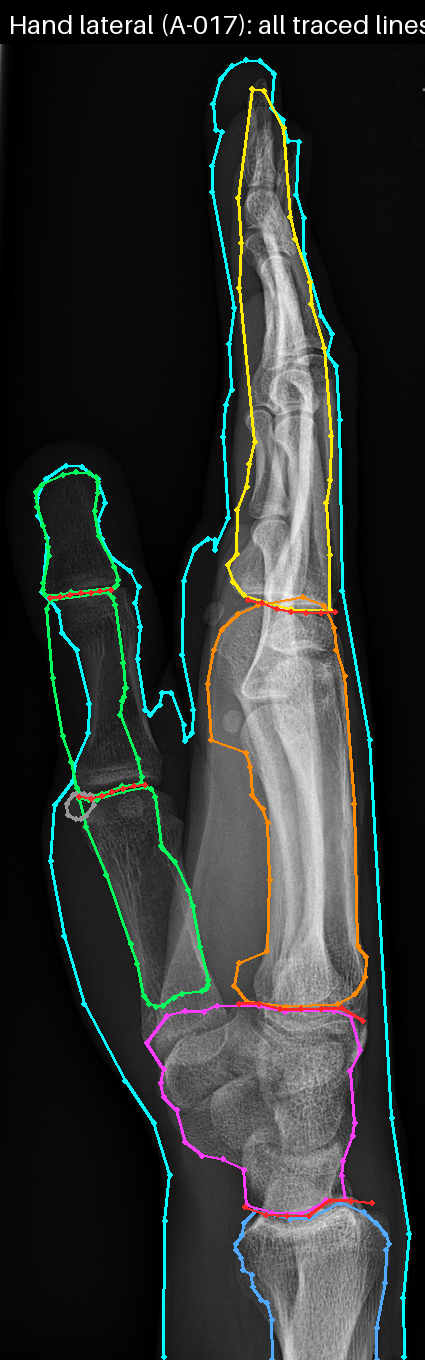
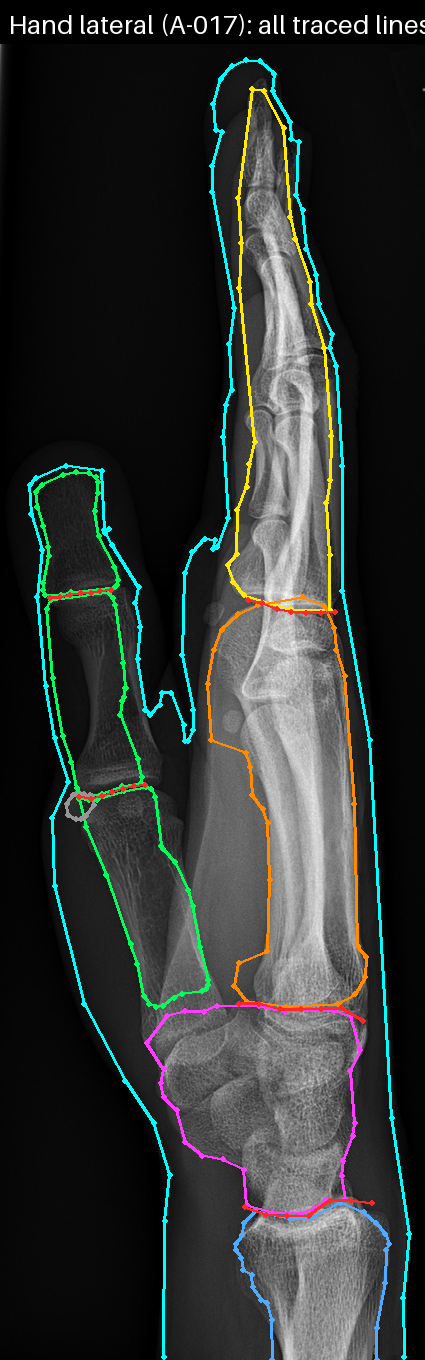
RAD-072 part 2a: soft-tissue outline always outside the bone outlines (owner approval fix)
- soft tissue traced after the bones and united with the bone outlines grown by 10 px
- script fails on any soft-tissue point inside a bone; hand-outlines.test.ts checks both views
- re-rendered pa-all, pa-soft-tissue, lateral-all

Claude-Session: https://claude.ai/code/session_01PsG86qasxry1aYi9hcHQZb

diff --git a/src/features/positioning/hand-outlines.test.ts b/src/features/positioning/hand-outlines.test.ts
@@ -1,0 +1,34 @@
+import { describe, expect, it } from "vitest";
+import outlines from "./hand-outlines.json";
+
+type Pt = [number, number];
+interface Structure { id: string; group: string; closed: boolean; points: Pt[] }
+
+const inPolygon = ([x, y]: Pt, poly: Pt[]) => {
+  let inside = false;
+  for (let i = 0, j = poly.length - 1; i < poly.length; j = i++) {
+    const [x1, y1] = poly[i]!, [x2, y2] = poly[j]!;
+    if (y1 > y !== y2 > y && x < x1 + ((y - y1) * (x2 - x1)) / (y2 - y1)) inside = !inside;
+  }
+  return inside;
+};
+
+describe("traced hand outlines (RAD-072 2a)", () => {
+  for (const view of ["pa", "lateral"] as const) {
+    it(`${view}: no soft-tissue point lies inside any bone outline (owner review)`, () => {
+      const ss = outlines.views[view].structures as Structure[];
+      const soft = ss.find((s) => s.group === "soft")!;
+      // open bone outlines (forearm, styloid tip) are closed by the chord between their ends; points along each soft segment are sampled too
+      const bones = ss.filter((s) => s.group !== "soft" && s.group !== "joints" && s.points.length > 2);
+      const samples: Pt[] = [];
+      soft.points.forEach((p, i) => {
+        const q = soft.points[i + 1];
+        if (!q) return void samples.push(p);
+        const n = Math.max(1, Math.ceil(Math.hypot(q[0] - p[0], q[1] - p[1]) / 2));
+        for (let k = 0; k < n; k++) samples.push([p[0] + ((q[0] - p[0]) * k) / n, p[1] + ((q[1] - p[1]) * k) / n]);
+      });
+      const bad = samples.flatMap((p) => bones.filter((b) => inPolygon(p, b.points)).map((b) => `${p.map(Math.round).join(",")} in ${b.id}`));
+      expect(bad).toEqual([]);
+    });
+  }
+});

diff --git a/scripts/trace-outlines/trace-hand-outlines.py b/scripts/trace-outlines/trace-hand-outlines.py
@@ -29,7 +29,7 @@ import sys
 from pathlib import Path
 
 import numpy as np
-from PIL import Image, ImageDraw, ImageFont
+from PIL import Image, ImageDraw, ImageFilter, ImageFont
 
 ROOT = Path(__file__).resolve().parent.parent.parent
 OUT_JSON = ROOT / "src/features/positioning/hand-outlines.json"
@@ -140,6 +140,7 @@ LAT_LINES = [
 SOFT_TOWARD_BG = {"pa": 0.0, "lateral": 0.5}  # curated: the lateral's finger soft tissue is very faint
 OUTER_STRENGTH = 0.3  # curated: a group outline step must be at least this fraction of the strongest step
 BRIGHT_FACTOR = {"pa": 0.6, "lateral": 0.6}  # curated: fraction of the bone-brightness level a group outline must enclose
+SOFT_MARGIN = 10  # px: the soft-tissue outline keeps at least this margin outside every bone outline
 GAP_HALF = 4  # px: half a joint-space width, between a traced gap line and the bone surface beside it
 
 # ───────────────────────────────────────────────────── image helpers ─────────────────────────────────────────────────────
@@ -492,15 +493,32 @@ def otsu(vals, lo, hi, bins=128):
     return float(thr), float(m0)
 
 
-def soft_tissue(img, toward_background):
-    sm = gauss(img, 3.0)
-    small = sm[::2, ::2]
+def soft_threshold(img, toward_background):
+    small = gauss(img, 3.0)[::2, ::2]
     # Otsu on the darker 75 % of the pixels only (background vs soft tissue; most bone is left out of the split)
     cap = float(np.percentile(small, 75))
     thr, bg = otsu(small[small < cap].ravel(), 0.0, cap)
     # the thin distal soft tissue is fainter than the palm: a curated fraction moves the cut toward the background mean
-    thr = thr - toward_background * (thr - bg)
-    mask = small > thr
+    return thr - toward_background * (thr - bg)
+
+
+def bone_guard(shape, outlines, margin):
+    """Half-resolution mask of every traced bone outline grown by `margin` px. Where the soft tissue is too faint for the
+    threshold (owner review 2026-10-23: the lateral thumb), the soft-tissue region is united with it, so the outline is a
+    smooth margin outside the bone edge and never crosses a bone."""
+    H, W = (shape[0] + 1) // 2, (shape[1] + 1) // 2
+    im = Image.new("L", (W, H), 0)
+    d = ImageDraw.Draw(im)
+    for pts in outlines:
+        d.polygon([(x / 2, y / 2) for x, y in pts], fill=255)
+    r = int(round(margin / 2))
+    im = im.filter(ImageFilter.MaxFilter(2 * r + 1))
+    return np.asarray(im) > 0
+
+
+def soft_tissue(img, thr, guard):
+    small = gauss(img, 3.0)[::2, ::2]
+    mask = (small > thr) | guard
     # largest 4-connected region (iterative flood fill)
     H, W = mask.shape
     lab = np.zeros(mask.shape, dtype=np.int32)
@@ -574,7 +592,7 @@ def soft_tissue(img, toward_background):
             runs.append(curr)
     run = max(runs, key=len)
     seg = pts[run]
-    return ints(rdp(seg, 5.0)), round(float(thr), 1)
+    return ints(rdp(seg, 5.0))
 
 
 # ───────────────────────────────────────────────────── assemble ─────────────────────────────────────────────────────
@@ -585,14 +603,12 @@ def view(kind, img, bones, blobs, joints, lines):
     sm = gauss(img, 2.0)
     gap = gauss(img, 1.2)
     out = []
-    soft, thr = soft_tissue(img, SOFT_TOWARD_BG[kind])
+    thr = soft_threshold(img, SOFT_TOWARD_BG[kind])
     # bone-brightness level for group outlines: Otsu of the smoothed image above the soft-tissue cut
     bone_t, _ = otsu(sm[sm > thr].ravel()[::7], thr, 255.0)
     for item in [*bones, *blobs]:
         if item.get("mode") == "outer" and BRIGHT_FACTOR[kind]:
             item["bright"] = BRIGHT_FACTOR[kind] * bone_t
-    out.append({"id": "soft-tissue", "group": "soft", "closed": False, "follows": None,
-                "note": f"Otsu threshold {thr} of the smoothed image; open where the forearm leaves the image", "points": soft})
     spec = {b["id"]: b for b in bones}
     # joint spaces first (they depend on the seeds only); each bone / blob is then bounded by the joint lines it touches
     jl = {}
@@ -642,7 +658,33 @@ def view(kind, img, bones, blobs, joints, lines):
         ra = np.array(by["radius"]["points"])
         tip = ra[np.argmin(ra[:, 1] - ra[:, 0])]  # top-right extreme: the radial side is the viewer's right (left hand, PA)
         out.append({"id": "radial-styloid", "group": "prominences", "closed": False, "follows": "radius", "points": ints([tip])})
+    # soft tissue last (it is united with the grown bone outlines), stored first
+    bones_px = [st["points"] if st["closed"] else st["points"] + [st["points"][0]]
+                for st in out if st["group"] not in ("joints",) and len(st["points"]) > 2]
+    soft = soft_tissue(img, thr, bone_guard(img.shape, bones_px, SOFT_MARGIN))
+    out.insert(0, {"id": "soft-tissue", "group": "soft", "closed": False, "follows": None,
+                   "note": f"Otsu threshold {round(float(thr), 1)} of the smoothed image, united with the bone outlines grown by "
+                           f"{SOFT_MARGIN} px; open where the forearm leaves the image", "points": soft})
+    bad = soft_inside_bone(out)
+    if bad:
+        sys.exit(f"{kind}: soft-tissue points inside a bone outline: {bad[:5]}")
     return out
+
+
+def point_in_polygon(x, y, poly):
+    inside = False
+    for (x1, y1), (x2, y2) in zip(poly, poly[1:] + poly[:1]):
+        if (y1 > y) != (y2 > y) and x < x1 + (y - y1) * (x2 - x1) / (y2 - y1):
+            inside = not inside
+    return inside
+
+
+def soft_inside_bone(structures):
+    """Automated check (owner review 2026-10-23): no soft-tissue point lies inside any bone outline. Open bone outlines
+    (forearm, styloid tip) are closed by the chord between their ends. Returns [(soft point, bone id), …]."""
+    soft = next(st for st in structures if st["group"] == "soft")["points"]
+    bones = [st for st in structures if st["group"] not in ("soft", "joints") and len(st["points"]) > 2]
+    return [(p, b["id"]) for p in soft for b in bones if point_in_polygon(p[0], p[1], b["points"])]
 
 
 def file_sha256(p):

diff --git a/docs/RAD-072_PART2A_PHASE_A_REPORT_2026-10-23.md b/docs/RAD-072_PART2A_PHASE_A_REPORT_2026-10-23.md
@@ -156,3 +156,8 @@
 | `pa-all.png`، `lateral-all.png` | نظرة شاملة |
 
 الرد المطلوب: «موافق» أو تصحيحات إضافية. **ملاحظة المالك للمرحلة B (مسجلة):** يُصلح H1 برسم العظام المتراكبة بأسلوب الصورة الشعاعية (تعبئة شبه شفافة أو حدود فوق بعضها) فتبقى العظام المتراكبة ظاهرة كما في صورة النتيجة.
+
+### ملحق 2: النسيج الرخو خارج العظام (موافقة المالك، 2026-10-23)
+- وافق المالك على التراكبات، مع تصحيح أخير قبل المرحلة B: خط النسيج الرخو الجانبي كان يعبر السلامية القريبة للإبهام. يُتتبع النسيج الرخو الآن بعد العظام، وتُضم منطقته إلى مخططات العظام الموسعة بهامش 10 px، فيبقى الخط حيث النسيج الرخو باهت هامشًا أملس خارج حد العظم. يقبل المالك أن تُرسم فجوة MCP للإبهام في PA خطًا شبه مستقيم.
+- **فحص آلي:** يفشل السكربت إن وقعت نقطة نسيج رخو داخل أي مخطط عظم، ويُجري `src/features/positioning/hand-outlines.test.ts` الفحص نفسه للمنظرين مع عيّنة كل 2 px على الخط. قبل الإصلاح كانت المخالفات: الجانبي 9 نقاط (thumb-distal وthumb-proximal وdigits-group)، وPA نقطتان (طرف d2). بعده: صفر. الاختبار يفشل على JSON القديم وينجح على الجديد.
+- تغيّر في JSON مخطط `soft-tissue` وحده في المنظرين، وأعيدت ثلاث صور: `lateral-all.png` و`pa-all.png` و`pa-soft-tissue.png`. السكربت يعيد كل المخرجات بايتًا ببايت.

diff --git a/scripts/trace-outlines/README.md b/scripts/trace-outlines/README.md
@@ -31,8 +31,11 @@ SHA-256 is written into the JSON header). No textbook, web, Bontrager or generat
    gap, `JOINT_CENTRE` / `JOINT_HALF` give the search centre and half-length (PA thumb MCP). The PA carpus is also capped
    (`ulnarBound`, a search cap, not a joint) by the line from the ulnar end of the radiocarpal line to the ulnar styloid tip,
    and takes the steepest edge in its lower-ulnar sector (`steepSector`), so it stays on the carpal bones.
-4. **Soft tissue**: Otsu threshold of the smoothed image (darker 75 % of pixels), largest region, boundary walk; image-edge runs
-   are cut, so the forearm end is open.
+4. **Soft tissue** (traced last, stored first): Otsu threshold of the smoothed image (darker 75 % of pixels), united with every
+   traced bone outline grown by `SOFT_MARGIN` (10 px), largest region, boundary walk; image-edge runs are cut, so the forearm
+   end is open. Where the soft tissue is too faint to threshold (lateral thumb) the outline is therefore a smooth margin outside
+   the bone. The script exits with an error if any soft-tissue point lies inside a bone outline; the same check runs in
+   `src/features/positioning/hand-outlines.test.ts`.
 5. **Simplify**: Ramer–Douglas–Peucker to a small number of integer control points.
 
 The output is illustrative and drawing-only, **not a measurement**. What the images do not show clearly is simplified, not

diff --git a/docs/ASSET_PROVENANCE_AND_LICENSES.md b/docs/ASSET_PROVENANCE_AND_LICENSES.md
@@ -915,3 +915,4 @@ Shipped font/notice bytes (SHA-256); font binaries are unmodified. In the IBM no
 | Reproduce | `python3 -I scripts/trace-outlines/trace-hand-outlines.py --overlays` (Pillow 12.3.0, NumPy 2.5.3); `--check` proves the JSON byte-identical. Re-running reproduced all eight PNGs byte-identically on 2026-10-23 (may vary with other Pillow versions). |
 | Limits | Illustrative, drawing-only; **not a measurement**, not a diagnostic image, no clinical validation. Carpus simplified to one outline; CMC lines approximate. [Owner decision](DECISIONS.md#rad072-2a-hand-owner-2026-10-23); [Phase A report](RAD-072_PART2A_PHASE_A_REPORT_2026-10-23.md). |
 | Owner corrections (2026-10-23) | Same sources, licence and method; re-traced after the owner's Phase A review (thumb chains, tufts, mc2/mc3, carpus, ulnar styloid, lateral digit group; sesamoid-like densities kept but marked `drawn: false`). JSON and the six changed PNGs re-generated; both re-runs byte-identical. [Addendum](RAD-072_PART2A_PHASE_A_REPORT_2026-10-23.md#addendum-owner-corrections). |
+| Soft-tissue fix (2026-10-23) | Soft-tissue outline re-traced so it stays outside every bone outline (10 px margin where the soft tissue is faint); `pa-all`, `pa-soft-tissue`, `lateral-all` re-generated, byte-identical on re-run. |
